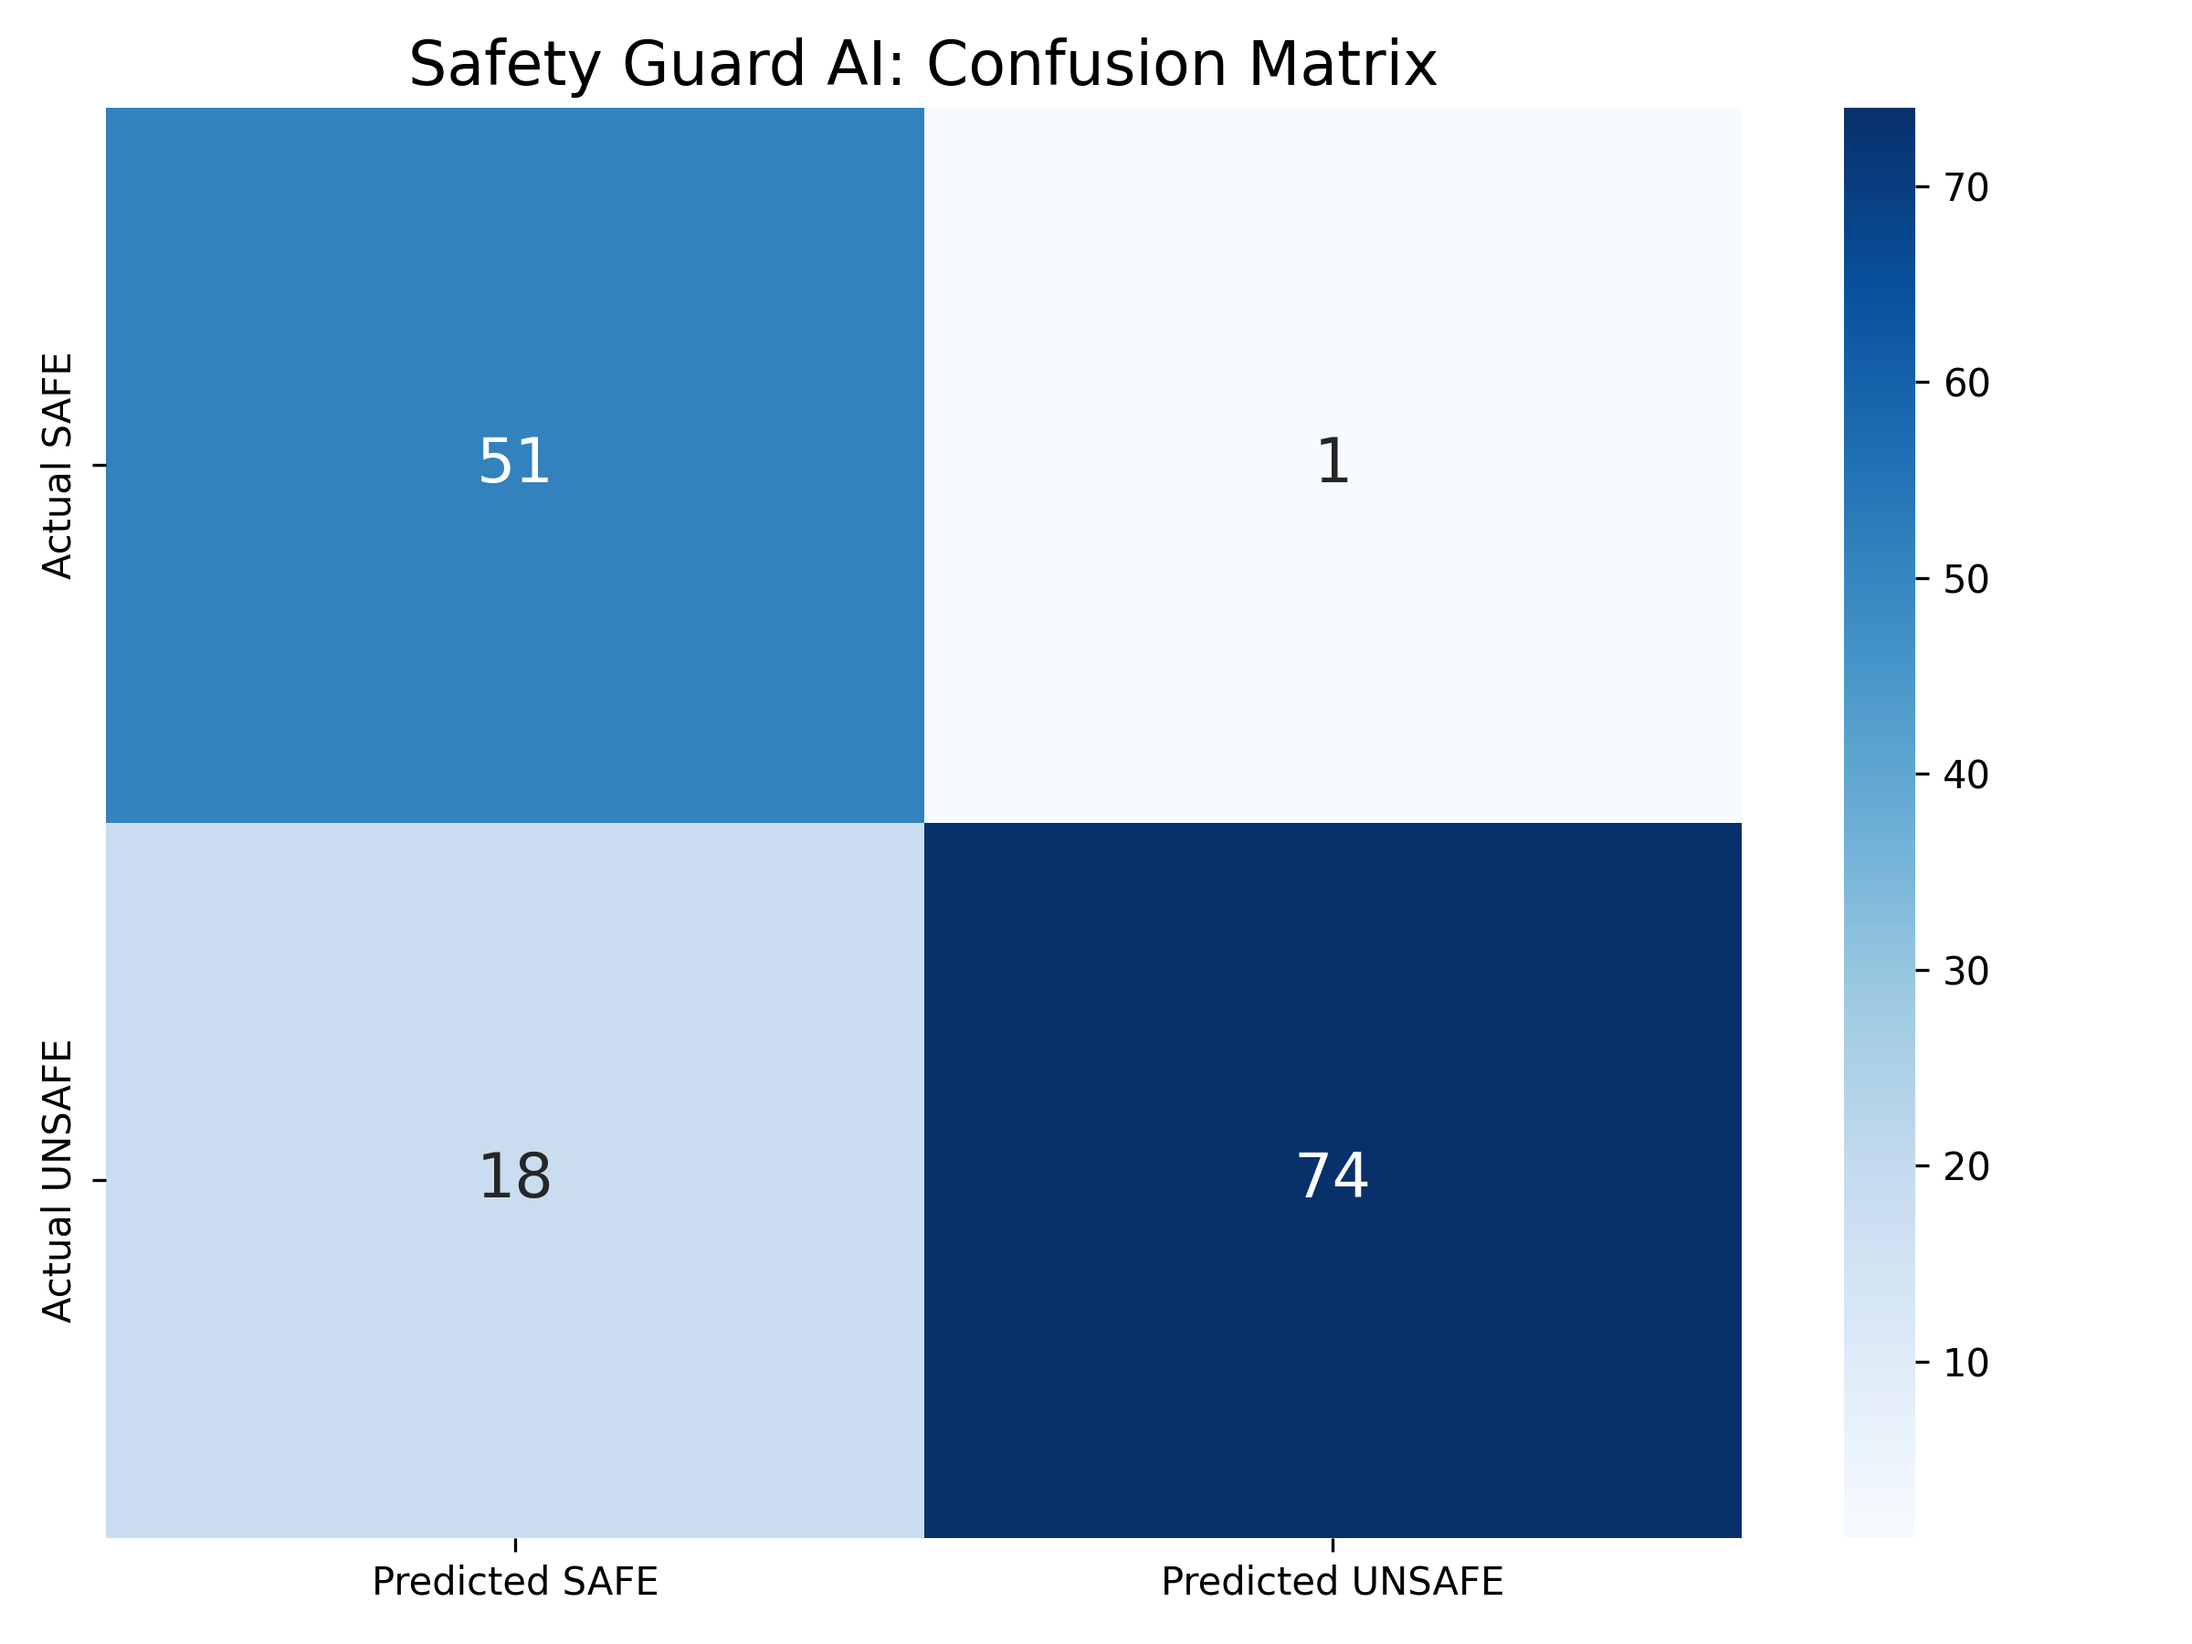
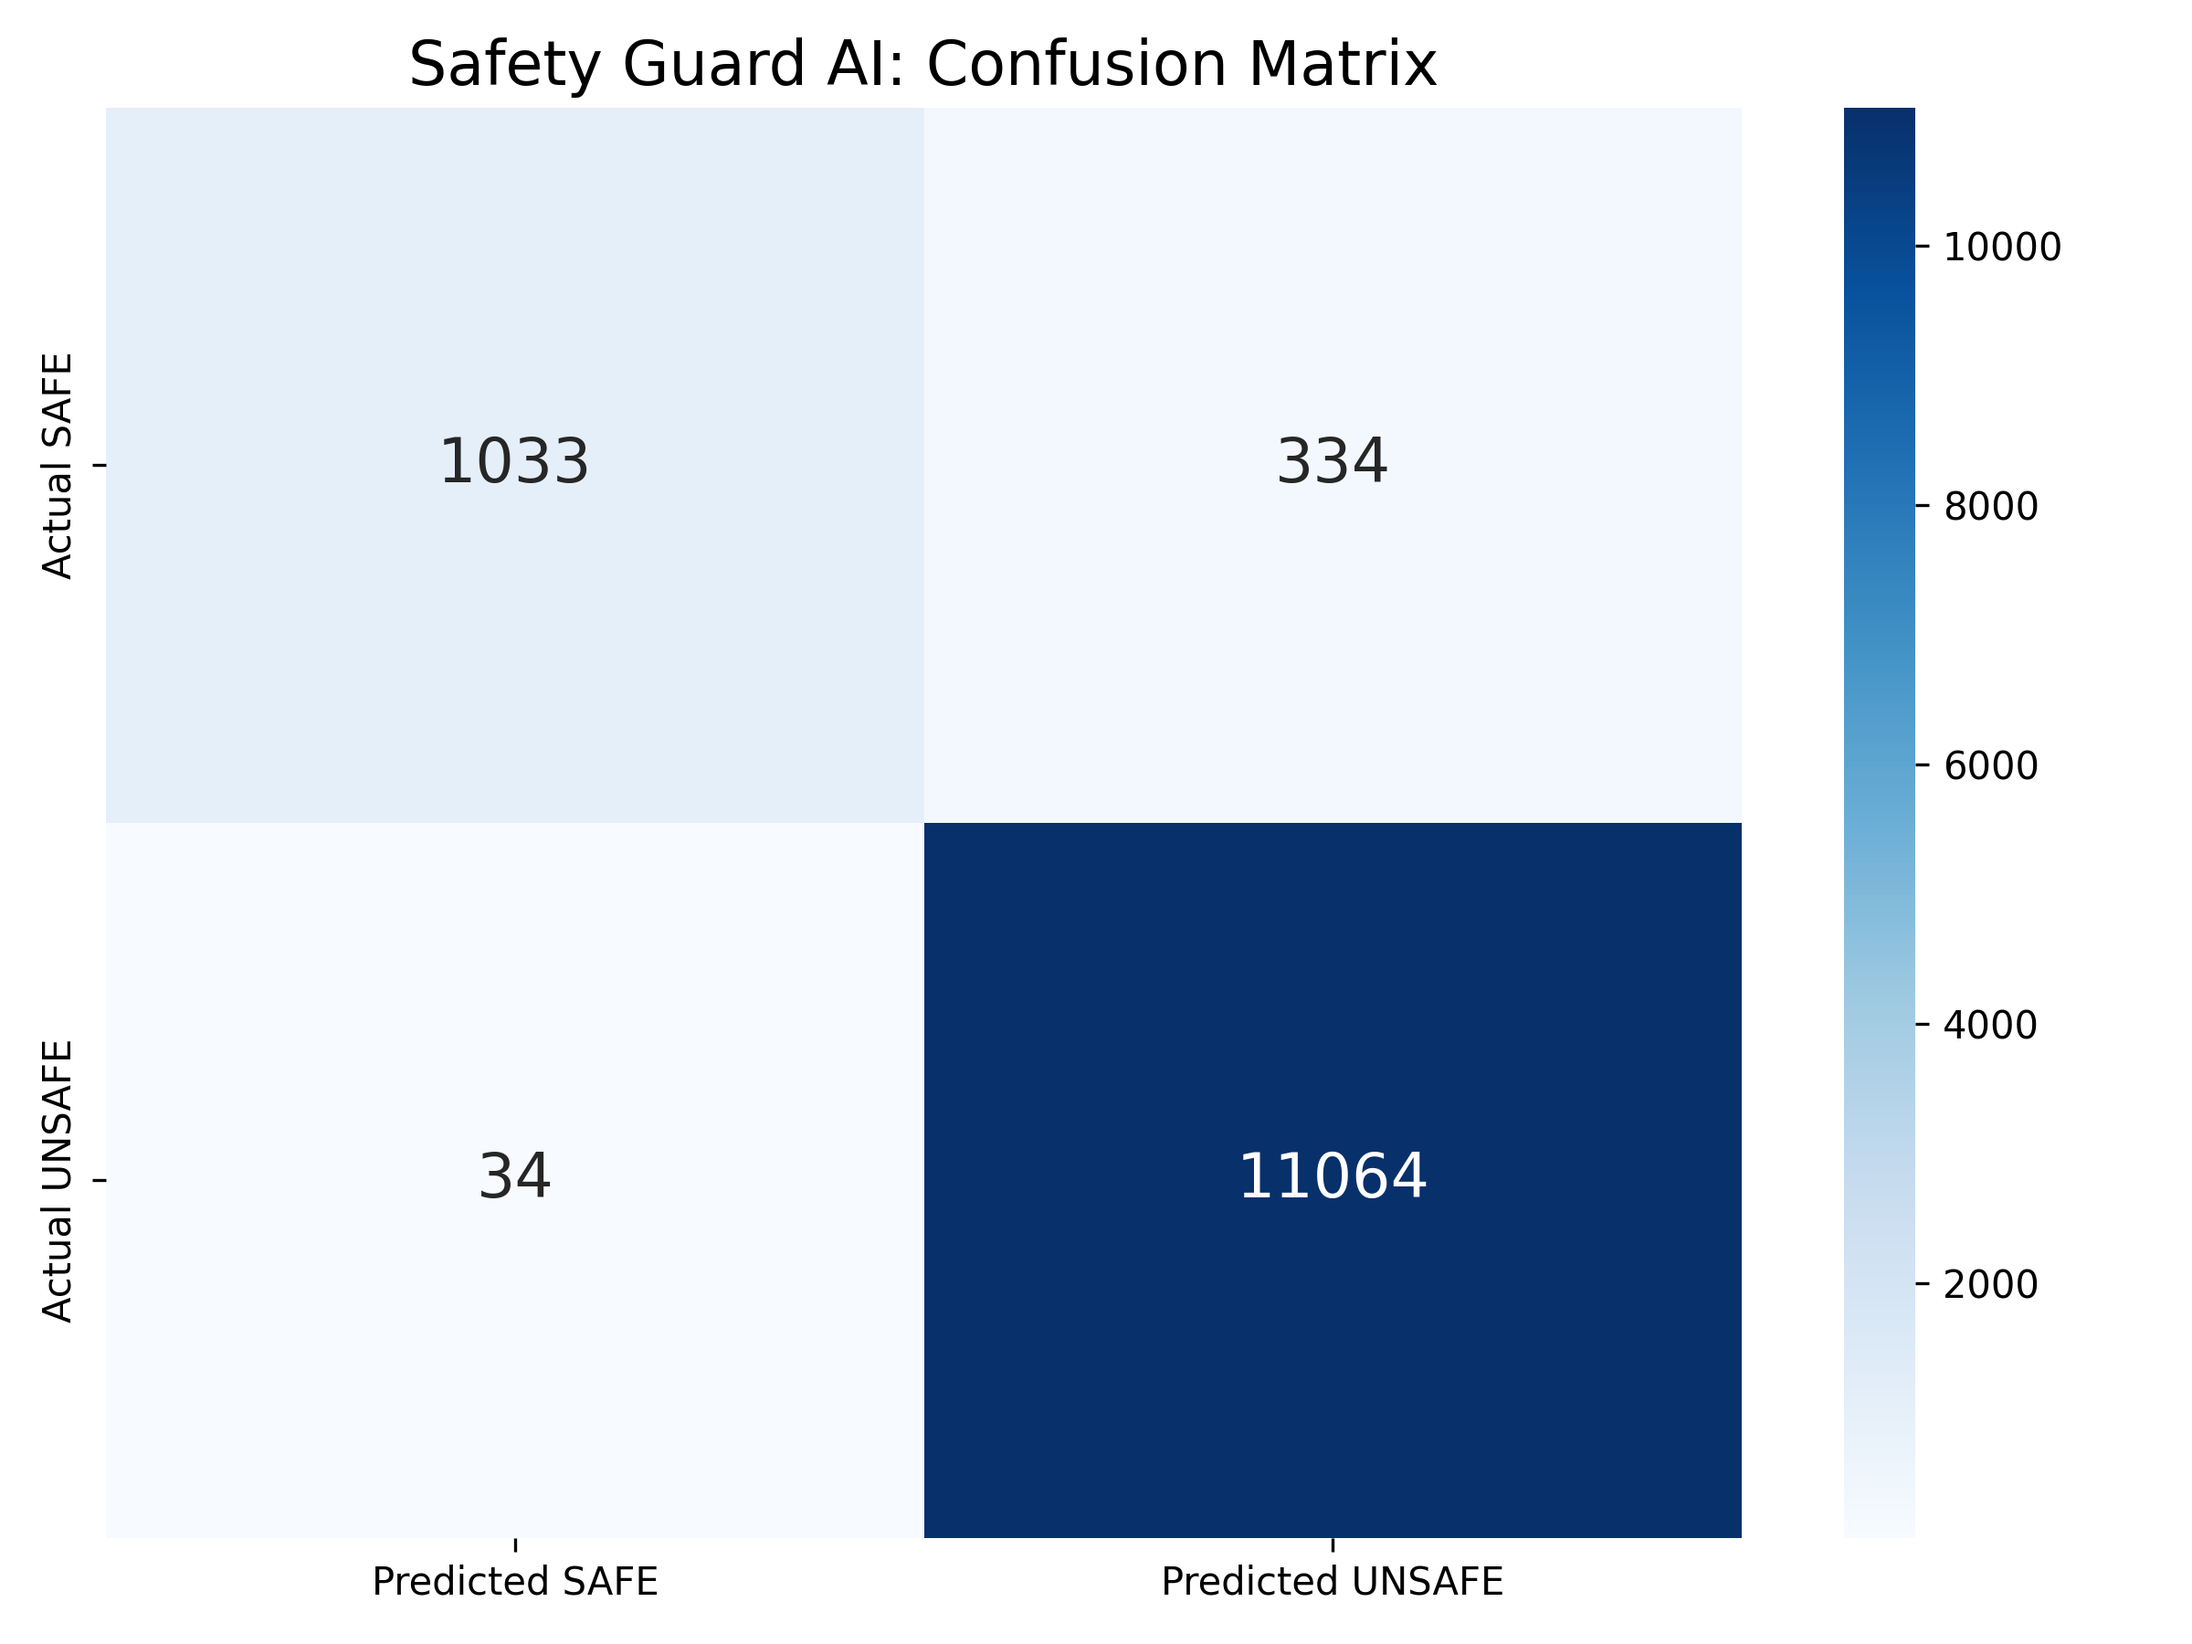
change dataset for evaluate saftety data

diff --git a/services/emergency_vehicle_preemption/confusion_matrix_plotter.py b/services/emergency_vehicle_preemption/confusion_matrix_plotter.py
@@ -7,7 +7,7 @@ from sklearn.model_selection import train_test_split
 from sklearn.metrics import confusion_matrix, classification_report
 
 BASE_DIR = os.path.dirname(os.path.abspath(__file__))
-DATA_PATH = os.path.join(BASE_DIR, "data/raw/outcome_based_safety_data.csv")
+DATA_PATH = os.path.join(BASE_DIR, "data/raw/massive_safety_data.csv")
 MODEL_PATH = os.path.join(BASE_DIR, "models/saved/outcome_safety_classifier.pkl")
 GRAPHS_DIR = os.path.join(BASE_DIR, "data/evaluation_results/graphs")
 os.makedirs(GRAPHS_DIR, exist_ok=True)
